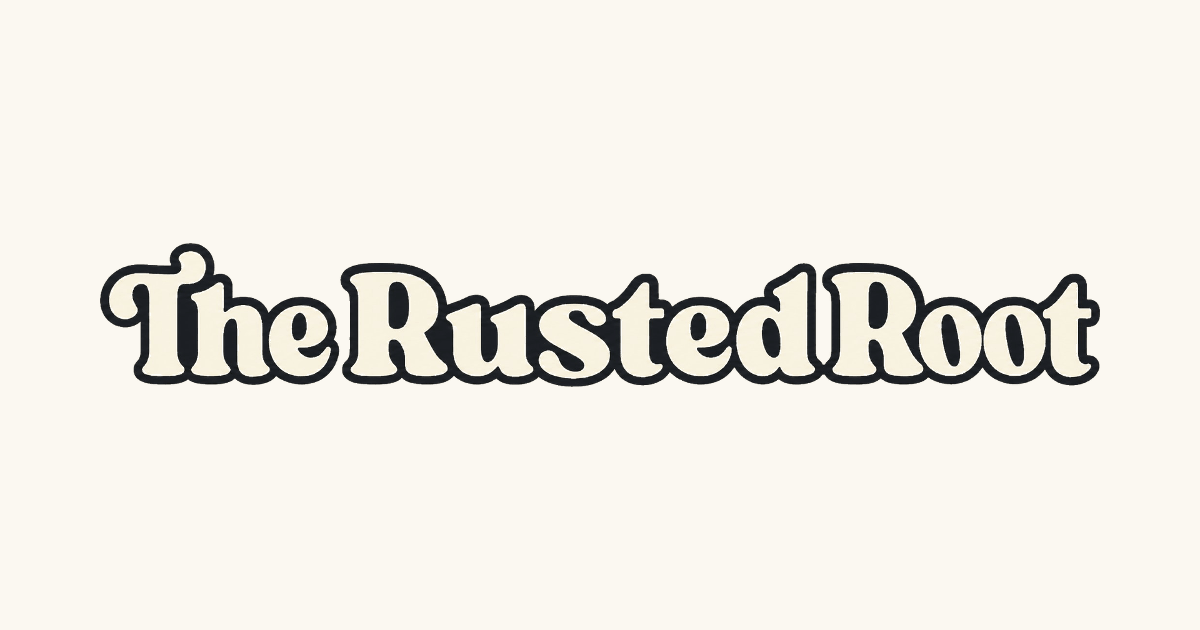
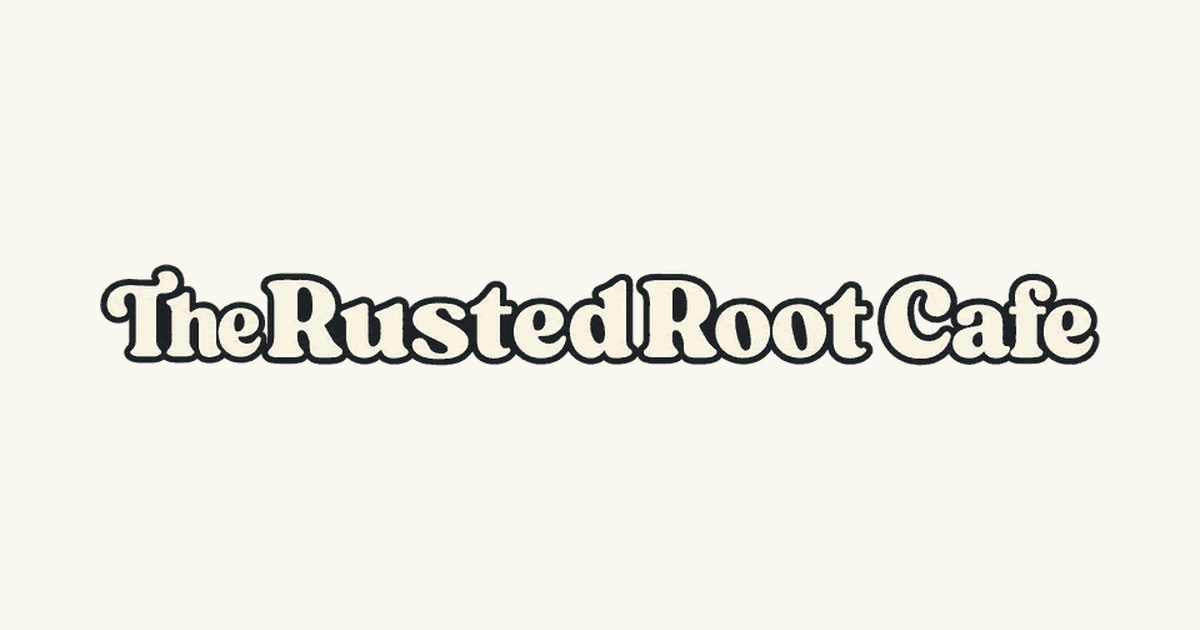
fix(seo): enrich local business schema, og:image wordmark
https://claude.ai/code/session_019enGppCponqihtJDavycaR

Changed region(s): [[0.0617, 0.3921, 0.925, 0.6333]]

diff --git a/index.html b/index.html
@@ -21,14 +21,14 @@
       property="og:description"
       content="Homey small-town café & scratch bakery in Windsor, VA. Gather. Grow. Get Rooted!"
     />
-    <meta property="og:image" content="/wordmark-og.png?v=2" />
+    <meta property="og:image" content="https://rooted-cafe-co.base44.app/wordmark-og.png?v=3" />
     <meta name="twitter:card" content="summary_large_image" />
     <meta name="twitter:title" content="The Rusted Root Cafe | Windsor, VA" />
     <meta
       name="twitter:description"
       content="Homey small-town café & scratch bakery in Windsor, VA. Gather. Grow. Get Rooted!"
     />
-    <meta name="twitter:image" content="/wordmark-og.png?v=2" />
+    <meta name="twitter:image" content="https://rooted-cafe-co.base44.app/wordmark-og.png?v=3" />
   </head>
   <body>
     <div id="root"></div>

diff --git a/src/components/LocalBusinessSchema.jsx b/src/components/LocalBusinessSchema.jsx
@@ -30,6 +30,11 @@ export default function LocalBusinessSchema() {
       ],
       sameAs: [BRAND.instagram, BRAND.facebook],
       slogan: BRAND.slogan,
+      url: 'https://rooted-cafe-co.base44.app',
+      priceRange: '$',
+      servesCuisine: ['American', 'Coffee', 'Baked Goods'],
+      hasMenu: 'https://rooted-cafe-co.base44.app/menu',
+      acceptsReservations: false,
     };
     const script = document.createElement('script');
     script.type = 'application/ld+json';
